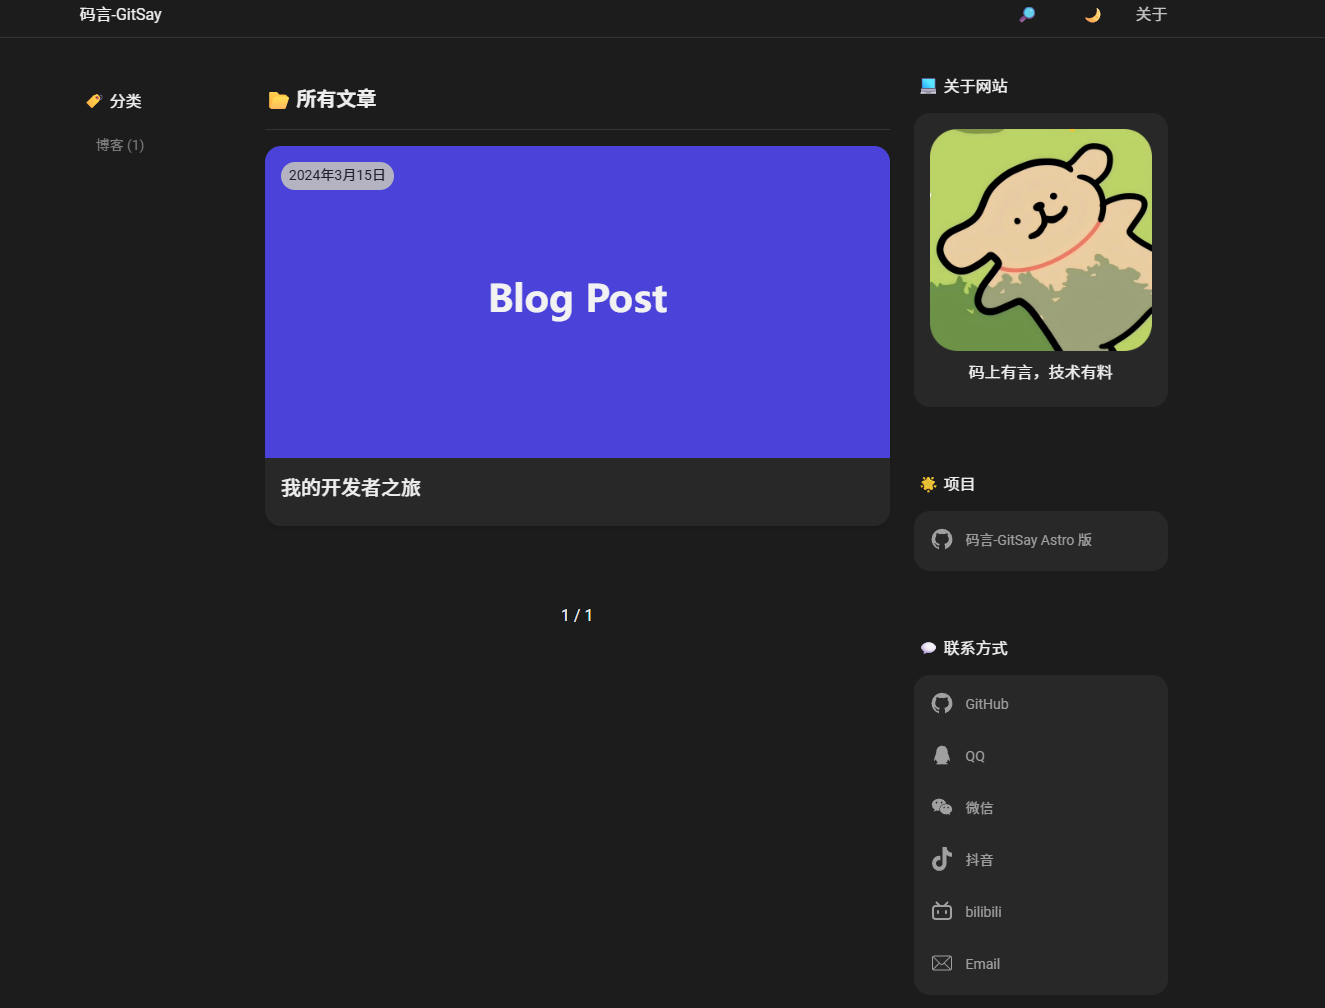
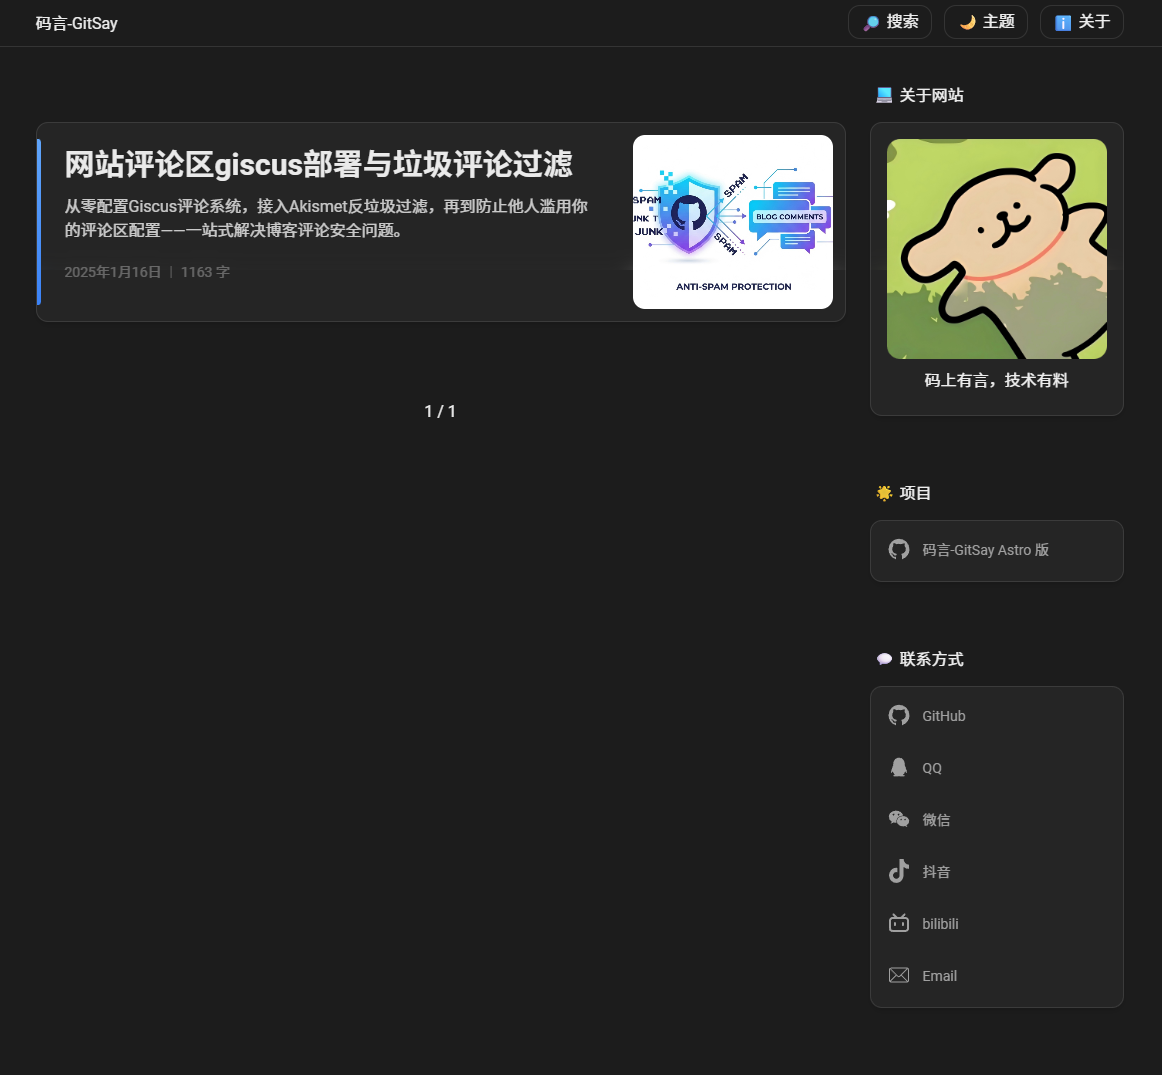
feat: Add Giscus security guide post, new ProfileCard and SiteFooter components, i18n dictionary, and global styles.

diff --git a/public/css/style.css b/public/css/style.css
@@ -783,6 +783,8 @@ a {
     margin-top: 20px;
     margin-bottom: 10px;
     /*font-weight: bold;*/
+    scroll-margin-top: 4rem;
+    /* 为固定导航栏留出空间，避免锚点跳转时标题被遮挡 */
 }
 
 /*.text-block h1 {*/
@@ -1804,6 +1806,23 @@ html.dark-mode .profile__content {
     line-height: 1.25rem;
 }
 
+/* Profile card link - make entire card clickable */
+a.profile__content {
+    text-decoration: none;
+    color: inherit;
+    cursor: pointer;
+    transition: all 0.3s ease;
+}
+
+a.profile__content:hover {
+    transform: translateY(-2px);
+    box-shadow: 0 8px 25px rgba(0, 0, 0, 0.1);
+}
+
+html.dark-mode a.profile__content:hover {
+    box-shadow: 0 8px 25px rgba(0, 0, 0, 0.3);
+}
+
 .box-links {
     display: flex;
     flex-direction: column;
@@ -2715,28 +2734,11 @@ html.dark-mode .article {
 
     .sidebar__contact {
         order: 2;
-        padding: 10px;
-        background: rgba(255, 255, 255, 0.75);
-        backdrop-filter: blur(10px);
-        -webkit-backdrop-filter: blur(10px);
-        border: 1px solid rgba(255, 255, 255, 0.5);
-        border-radius: var(--radius-md);
-        box-shadow: var(--shadow-card);
     }
 
-    html.dark-mode .sidebar__contact {
-        background: rgba(40, 40, 40, 0.75);
-        border-color: rgba(255, 255, 255, 0.1);
-    }
-
-    /* 移除联系方式区域内部 box-links 的边框和背景，避免双重边框和颜色叠加 */
-    .sidebar__contact .box-links,
-    html.dark-mode .sidebar__contact .box-links {
-        border: none !important;
-        background: transparent !important;
-        box-shadow: none !important;
-        backdrop-filter: none !important;
-        -webkit-backdrop-filter: none !important;
+    /* 在移动端让 contact__title 样式与 profile__title 保持一致 */
+    .sidebar__contact .contact__title {
+        margin-bottom: .75rem;
     }
 
     .sidebar__footer {

diff --git a/src/i18n/ui.ts b/src/i18n/ui.ts
@@ -52,8 +52,8 @@ const localeOverrides: Partial<Record<LocaleCode, Partial<UiDictionary>>> = {
   zh: {
     'ui.categories': '分类',
     'ui.profile': '关于网站',
-    'ui.projects': '项目',
-    'ui.projects_title': '项目',
+    'ui.projects': '本项目',
+    'ui.projects_title': '本项目',
     'ui.projects_description': '精选项目和实验',
     'ui.contacts': '联系方式',
     'ui.about': '关于',

diff --git a/src/content/posts/giscus-security-guide.md b/src/content/posts/giscus-security-guide.md
@@ -1,0 +1,172 @@
+---
+title: '用giscus为网站打造无垃圾评论区：giscus部署与垃圾评论过滤'
+h1: 网站评论区giscus部署与垃圾评论过滤
+description: >-
+  从零配置Giscus评论系统，接入Akismet反垃圾过滤，再到防止他人滥用你的评论区配置——一站式解决博客评论安全问题。
+date: '2025-01-16'
+---
+![Giscus评论系统安全配置](/img/posts/giscus-security-guide/cover.png)
+
+想给网站加个评论系统，又不想自己搭服务器？Giscus 是个好选择！但评论区暴露在公网，垃圾评论和配置被盗用的问题也随之而来。这篇文章教你**从头搭建到全面防护**，让评论区既好用又安全。
+
+---
+
+## 🚀 快速部署 Giscus
+
+Giscus 巧妙地把 GitHub Discussions 当成评论数据库，完全免费、无需自建服务器。
+
+### 第一步：准备仓库
+
+1. 创建一个 **公开仓库**（建议新开一个干净的空仓库专门存评论）
+2. 进入仓库设置，启用 **Discussions** 功能
+
+![启用 GitHub Discussions 功能](/img/posts/giscus-security-guide/02-giscus-repo-verify.png)
+
+### 第二步：获取配置代码
+
+前往 [giscus.app](https://giscus.app/zh-CN)，输入你的仓库地址，通过验证：
+
+![验证仓库](/img/posts/giscus-security-guide/03-mapping-options.png)
+
+#### 映射关系（重要！）
+
+这决定了"哪条评论属于哪篇文章"：
+
+![映射关系配置](/img/posts/giscus-security-guide/04-category-select.png)
+
+| 选项 | 推荐度 | 说明 |
+|------|--------|------|
+| `pathname` | ⭐⭐⭐ | 只要文章路径不变，评论永远匹配 |
+| `url` | ⭐ | 换域名就完蛋 |
+| `title` | ⭐ | 改标题就完蛋 |
+
+> 💡 **强烈推荐使用 `pathname`**。假如文章路径是 `posts/hello-world`，只要这个路径不变，评论和页面就永远对应。
+
+#### 分类选择
+
+推荐选择 `公告（Announcements）`：
+
+![分类选择](/img/posts/giscus-security-guide/05-features.png)
+
+#### 特性与主题
+
+按需勾选特性，按喜好选择主题：
+
+![特性配置](/img/posts/giscus-security-guide/06-theme-select.png)
+
+![主题选择](/img/posts/giscus-security-guide/07-script-code.png)
+
+#### 获取代码
+
+最后复制生成的 JS 代码，放到你想展示评论的位置即可！
+
+![生成的脚本代码](/img/posts/giscus-security-guide/08-akismet-register.png)
+
+---
+
+## 🛡 接入 Akismet 反垃圾系统
+
+Giscus 搭建好了，但评论区迟早会被机器人盯上。Akismet 是 WordPress 创始人打造的老牌反垃圾系统，准确率极高。
+
+### 获取 API Key
+
+1. 注册 [akismet.com](https://akismet.com/)
+2. 选择 **Akismet Personal** 订阅
+3. 把价格滑块拖到 **$0**（个人博客免费用！）
+4. 记下你的 **API Key**
+
+![获取 API Key](/img/posts/giscus-security-guide/09-akismet-apikey.png)
+
+### 部署 GitHub Action
+
+前往:[https://github.com/gbmomo/GitSay-Astro-giscus/blob/main/.github/workflows/akismet-comment-check.yml](https://github.com/gbmomo/GitSay-Astro-giscus/blob/main/.github/workflows/akismet-comment-check.yml)
+
+在你的 Giscus 仓库添加这个 Action(实在不会就把这个仓库fork一下然后添加Secret和修改giscus.json)。
+
+然后配置两个 Secret：
+
+首先创建 GitHub Token，需要 `repo`、`write:discussion`、`user` 权限：
+
+![创建 GitHub Token](/img/posts/giscus-security-guide/10-github-token.png)
+
+然后在仓库设置中添加 Secrets：
+
+![配置仓库 Secrets](/img/posts/giscus-security-guide/ScreenShot_2026-01-16_123444_120.png)
+
+| Secret 名称 | 获取方式 |
+|-------------|----------|
+| `AKISMET_API_KEY` | 刚才记下的 API Key |
+| `GH_TOKEN` | 在 [GitHub Tokens](https://github.com/settings/tokens) 创建 |
+
+### 测试是否生效
+
+发一条内容为 `viagra-test-123` 的评论——这是 Akismet 的测试关键词，**保证被识别为垃圾**。
+
+去 GitHub Actions 页面看看是否自动删掉了这条评论：
+
+![垃圾评论被自动删除](/img/posts/giscus-security-guide/11-github-secrets.png)
+
+成功就说明配置完成！
+
+---
+
+## 🚫 封禁恶意用户
+
+有人绕过反垃圾疯狂刷屏？两招解决：
+
+### 方法一：封禁特定用户
+
+进入捣乱者的 GitHub 个人主页，点击封禁按钮即可。详见 [GitHub 官方文档](https://docs.github.com/zh/communities/maintaining-your-safety-on-github/blocking-a-user-from-your-personal-account)。
+
+### 方法二：限制新用户
+
+如果有人开小号刷评，开启仓库的临时交互限制：
+
+```
+https://github.com/你的用户名/你的仓库/settings/interaction_limits
+```
+
+![限制新用户](/img/posts/giscus-security-guide/12-spam-deleted.png)
+
+配置后，新注册的账号就无法在你的仓库捣乱了。
+
+---
+
+## 🔒 防止评论区被"借用"
+
+开源博客有个尴尬问题：有人 Fork 完代码直接上线，**连你的 Giscus 配置都没改**。
+
+结果就是——别人的评论全跑到你这来了：
+
+![收到别人网站的评论通知](/img/posts/giscus-security-guide/13-fork-email.png)
+
+### 限制 Giscus 只为自己服务
+
+在启用 Giscus 的仓库根目录创建 `giscus.json`：
+
+```json
+{
+  "origins": ["https://你的域名.com"]
+}
+```
+
+配置完成后，即使别人网站上还挂着你的评论区代码，**也会被直接拒绝加载**。
+
+![拒绝加载](/img/posts/giscus-security-guide/15.png)
+
+---
+
+## ✅ 配置清单
+
+Fork 开源博客模板后，上线前请确认：
+
+- [ ] Giscus 仓库改成自己的
+- [ ] `giscus.json` 配置了域名白名单
+- [ ] Akismet 反垃圾已部署
+- [ ] 所有 API 端点都指向自己的服务
+
+> ⚠ **重要提醒**：开源是为了学习，不是照搬。上线前一定要把别人的配置换成自己的！
+
+---
+
+*这篇文章帮到你了吗？欢迎在评论区告诉我！*
